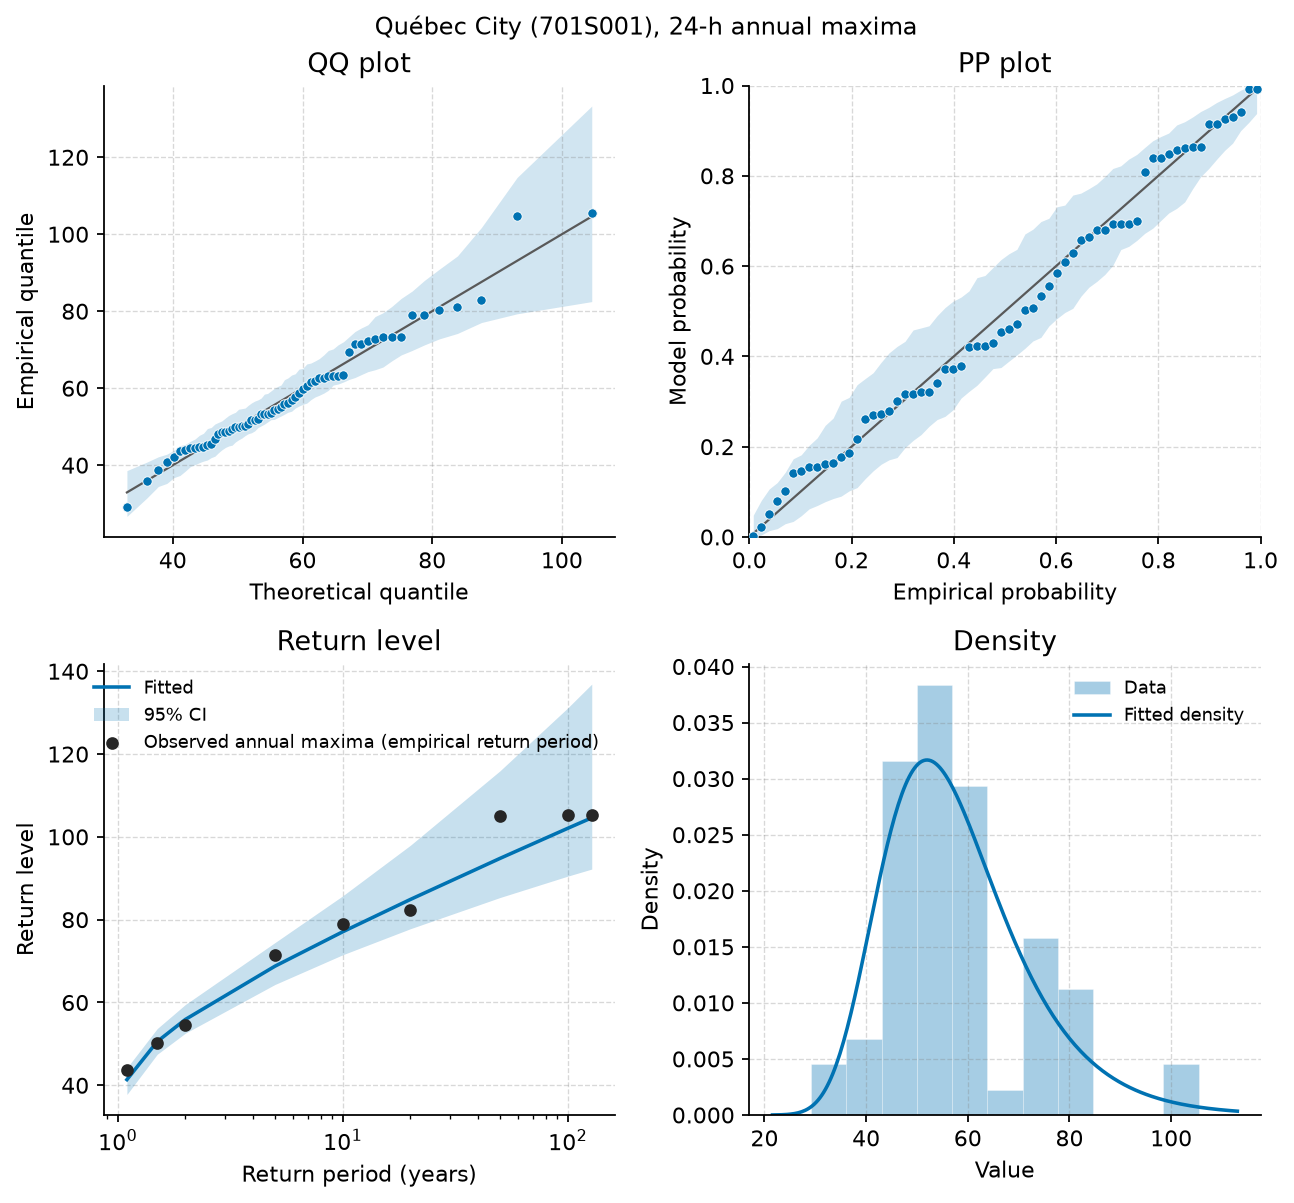
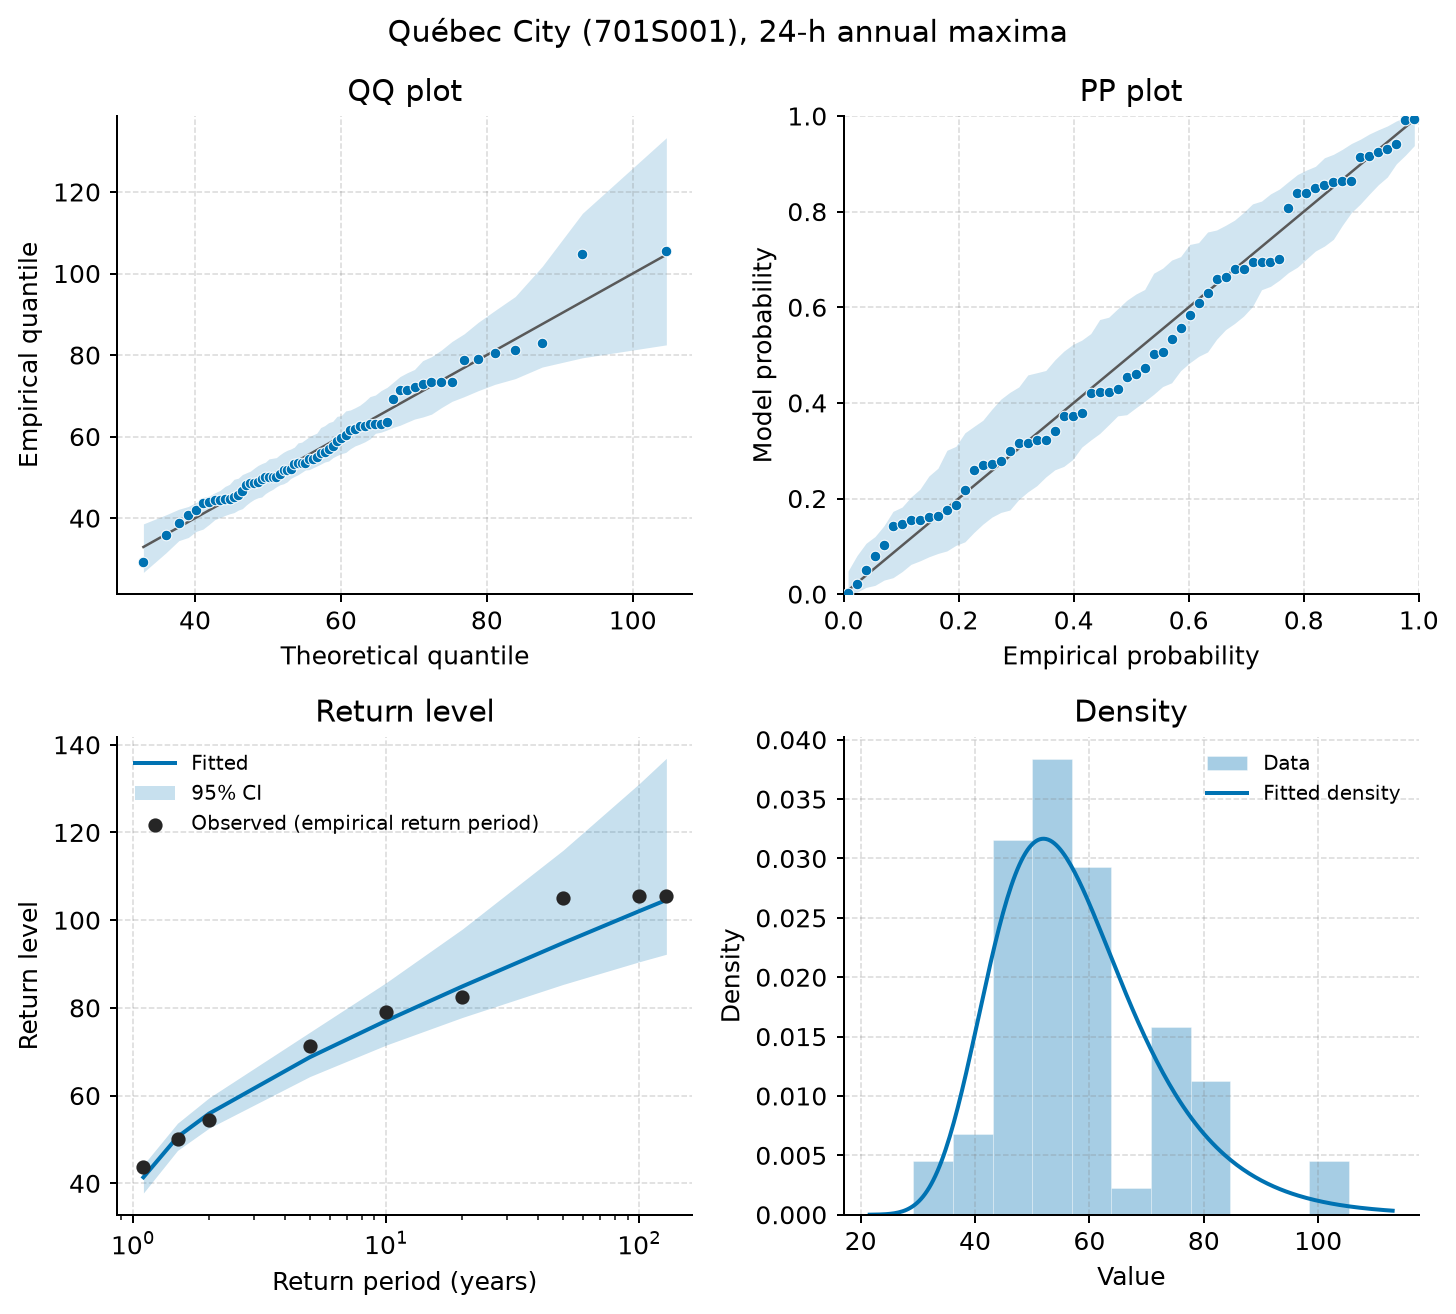
Fix IDF chart title clipping and legend overlap
Use a two-line title, move the IDF legend to the lower left, label
observed points as "Observed (empirical return period)", and save
figures with bbox_inches="tight".

diff --git a/docs/scripts/tutorial_quebec_idf.py b/docs/scripts/tutorial_quebec_idf.py
@@ -160,17 +160,19 @@ ax.set_xticks(x, data.tags)
 ax.set_yscale("log")
 ax.set_ylabel("100-year intensity (mm/h)")
 ax.set_xlabel("Duration")
-ax.set_title("Québec City – Jean Lesage Intl (701S001): 100-year intensity and 95% intervals")
+ax.set_title("Québec City (701S001)\n100-year intensity and 95% intervals")
 apply_axes_style(ax)
-ax.legend(frameon=False, fontsize=8)
+ax.legend(frameon=False, fontsize=8, loc="upper right")
 fig.tight_layout()
-fig.savefig(IMG / "quebec_100yr_ci.png", dpi=180)
+fig.savefig(IMG / "quebec_100yr_ci.png", dpi=180, bbox_inches="tight")
 w("![100-year intervals](img/quebec_100yr_ci.png)\n")
 
-ax = gau.plot(periods=(2, 10, 25, 100), ci="hessian")
-ax.set_title("Québec City – Jean Lesage Intl (701S001), d-GEV + Matérn Gaussian copula")
-ax.figure.tight_layout()
-ax.figure.savefig(IMG / "quebec_idf_curves.png", dpi=180)
+ax = gau.plot(
+    periods=(2, 10, 25, 100),
+    ci="hessian",
+    title="Québec City (701S001)\nIDF curves, d-GEV with Matérn Gaussian copula",
+)
+ax.figure.savefig(IMG / "quebec_idf_curves.png", dpi=180, bbox_inches="tight")
 w("![IDF curves](img/quebec_idf_curves.png)\n")
 
 # 6 trend ------------------------------------------------------------------------------------------
@@ -247,7 +249,7 @@ ax.text(
     clip_on=False,
 )
 fig.tight_layout()
-fig.savefig(IMG / "quebec_map_q100_1h.png", dpi=180)
+fig.savefig(IMG / "quebec_map_q100_1h.png", dpi=180, bbox_inches="tight")
 w("![Québec map](img/quebec_map_q100_1h.png)\n")
 w("## Caveats\n")
 w("- ECCC annual maxima mix station histories (composite records); check metadata before inference.\n"

diff --git a/src/tails/plotting.py b/src/tails/plotting.py
@@ -144,7 +144,7 @@ def plot_fit_diagnostics(
             ax_rl.fill_between(periods, lo, hi, color=color(0), alpha=0.22, linewidth=0, zorder=2, label=label)
         if family == "gev":
             emp = empirical_return_levels(x, periods)
-            ax_rl.scatter(periods, emp, s=22, color="0.15", zorder=4, label="Observed annual maxima (empirical return period)")
+            ax_rl.scatter(periods, emp, s=22, color="0.15", zorder=4, label="Observed (empirical return period)")
         ax_rl.set_xlabel("Return period (years)")
         ax_rl.set_ylabel("Return level")
         ax_rl.set_title("Return level")
@@ -308,7 +308,7 @@ def plot_idf(
             color="0.2",
             edgecolors="white",
             linewidths=0.5,
-            label="Observed annual maxima (empirical return period)",
+            label="Observed (empirical return period)",
         )
     ax.set_xscale("log")
     ax.set_yscale("log")
@@ -318,6 +318,8 @@ def plot_idf(
         ax.set_title(title)
     elif fit.stations:
         ax.set_title(str(fit.stations[station]))
-    ax.legend(frameon=False, fontsize=8)
+    # Lower left is the empty corner of a log–log IDF plot (short duration, low intensity).
+    ax.legend(frameon=False, fontsize=8, loc="lower left")
     apply_axes_style(ax)
+    ax.figure.tight_layout()
     return ax

diff --git a/tests/test_plotting.py b/tests/test_plotting.py
@@ -63,7 +63,7 @@ def test_idf_plot_units_ribbons_and_empirical_legend():
     # Ribbons present; legend names the empirical points (not unexplained grey dots).
     assert any("PolyCollection" in c.__class__.__name__ for c in ax.collections)
     labels = [t.get_text() for t in ax.get_legend().get_texts()]
-    assert "Observed annual maxima (empirical return period)" in labels
+    assert "Observed (empirical return period)" in labels
     assert any("2-year" in t or "2-yr" in t for t in labels)
     # Empirical 2-year point at 1 h is the Weibull quantile of the 1-h column.
     col = list(data.durations).index(1.0)
